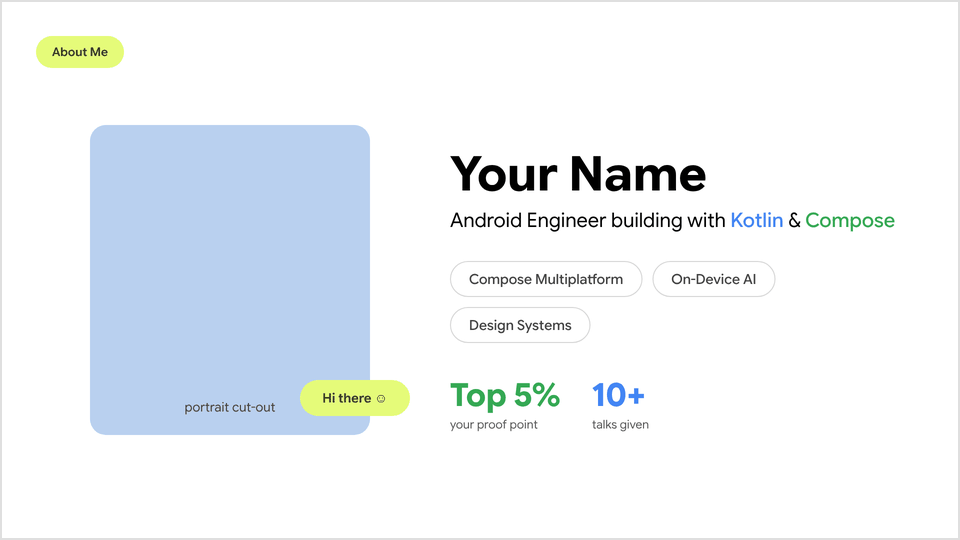
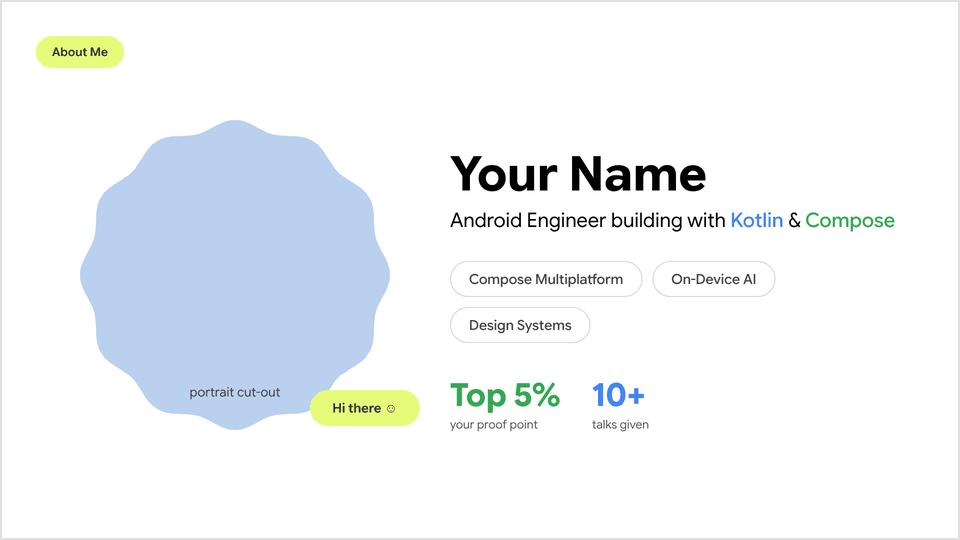
Use M3 Expressive shapes wherever possible
Agenda numbers, feature-card icon backdrops, title hero and speaker
portrait backdrops, the emphasis tile, the vs badge and timeline dots
now use cookie/clover/sunny/flower/burst shapes. DESIGN.md gains the
shape rule and a checklist item; previews and banner refreshed.

Claude-Session: https://claude.ai/code/session_01SdsZEhSAwvsHzT8snBEZXM

diff --git a/components/Timeline.html b/components/Timeline.html
@@ -15,8 +15,8 @@ A left-to-right sequence of 3–6 steps on a dashed line, for pipelines, setup f
 
 **Consumer provides:** step labels (or years), a 1–3 word heading and a one-line detail for each; which step is the destination.
 
-- Dashed `card-border` line across the slide; each step = lime `dr-node` pill on top, a 2px stem, a 40px `green` dot on the line, heading 30px/500 and detail 24/32 `ink-muted` below.
-- The destination step: solid `green` pill with white text and a larger `lime` dot ringed in `green`.
+- Dashed `card-border` line across the slide; each step = lime `dr-node` pill on top, a 2px stem, a 44px `green` cookie shape (`dr-shape is-cookie9`) on the line, heading 30px/500 and detail 24/32 `ink-muted` below.
+- The destination step: solid `green` pill with white text and a larger 76px `green` sunny shape (`dr-shape is-sunny`).
 - Equal columns; ≤ 6 steps. Longer flows go to `FlowDiagram`.
 -->
 <div class="dr-stage"><div class="dr-slide">
@@ -24,7 +24,7 @@ A left-to-right sequence of 3–6 steps on a dashed line, for pipelines, setup f
 <span class="dr-tag">Model to App</span>
 <div style="position:absolute;left:200px;right:200px;top:539px;height:4px;border-radius:2px;background:repeating-linear-gradient(90deg,var(--card-border) 0 16px,transparent 16px 28px)"></div>
 <div style="position:absolute;left:160px;right:160px;top:300px;display:grid;grid-template-columns:repeat(5,1fr)">
-<div style="display:flex;flex-direction:column;align-items:center;text-align:center"><span class="dr-node" style="font-size:24px;">Step 1</span><div style="width:2px;height:120px;border-radius:1px;background:var(--card-border)"></div><div style="width:40px;height:40px;border-radius:50%;background:var(--green);border:0px solid var(--green)"></div><div style="font-size:30px;line-height:40px;font-weight:500;margin-top:48px">Pick a model</div><div style="font-size:24px;line-height:32px;color:var(--ink-muted);margin-top:12px;max-width:260px">Gemma 3 1B from Hugging Face</div></div><div style="display:flex;flex-direction:column;align-items:center;text-align:center"><span class="dr-node" style="font-size:24px;">Step 2</span><div style="width:2px;height:120px;border-radius:1px;background:var(--card-border)"></div><div style="width:40px;height:40px;border-radius:50%;background:var(--green);border:0px solid var(--green)"></div><div style="font-size:30px;line-height:40px;font-weight:500;margin-top:48px">Quantize</div><div style="font-size:24px;line-height:32px;color:var(--ink-muted);margin-top:12px;max-width:260px">INT8 / INT4 weights</div></div><div style="display:flex;flex-direction:column;align-items:center;text-align:center"><span class="dr-node" style="font-size:24px;">Step 3</span><div style="width:2px;height:120px;border-radius:1px;background:var(--card-border)"></div><div style="width:40px;height:40px;border-radius:50%;background:var(--green);border:0px solid var(--green)"></div><div style="font-size:30px;line-height:40px;font-weight:500;margin-top:48px">Convert</div><div style="font-size:24px;line-height:32px;color:var(--ink-muted);margin-top:12px;max-width:260px">Bundle into a .task file</div></div><div style="display:flex;flex-direction:column;align-items:center;text-align:center"><span class="dr-node" style="font-size:24px;">Step 4</span><div style="width:2px;height:120px;border-radius:1px;background:var(--card-border)"></div><div style="width:40px;height:40px;border-radius:50%;background:var(--green);border:0px solid var(--green)"></div><div style="font-size:30px;line-height:40px;font-weight:500;margin-top:48px">Push</div><div style="font-size:24px;line-height:32px;color:var(--ink-muted);margin-top:12px;max-width:260px">adb push to the device</div></div><div style="display:flex;flex-direction:column;align-items:center;text-align:center"><span class="dr-node" style="font-size:24px;background:var(--green);color:var(--on-green);">Step 5</span><div style="width:2px;height:120px;border-radius:1px;background:var(--card-border)"></div><div style="width:56px;height:56px;border-radius:50%;background:var(--lime);border:8px solid var(--green)"></div><div style="font-size:30px;line-height:40px;font-weight:500;margin-top:48px">Generate</div><div style="font-size:24px;line-height:32px;color:var(--ink-muted);margin-top:12px;max-width:260px">LlmInference on Android</div></div>
+<div style="display:flex;flex-direction:column;align-items:center;text-align:center"><span class="dr-node" style="font-size:24px;">Step 1</span><div style="width:2px;height:120px;border-radius:1px;background:var(--card-border)"></div><div class="dr-shape is-cookie9" style="width:44px;height:44px;margin:16px 0"></div><div style="font-size:30px;line-height:40px;font-weight:500;margin-top:48px">Pick a model</div><div style="font-size:24px;line-height:32px;color:var(--ink-muted);margin-top:12px;max-width:260px">Gemma 3 1B from Hugging Face</div></div><div style="display:flex;flex-direction:column;align-items:center;text-align:center"><span class="dr-node" style="font-size:24px;">Step 2</span><div style="width:2px;height:120px;border-radius:1px;background:var(--card-border)"></div><div class="dr-shape is-cookie9" style="width:44px;height:44px;margin:16px 0"></div><div style="font-size:30px;line-height:40px;font-weight:500;margin-top:48px">Quantize</div><div style="font-size:24px;line-height:32px;color:var(--ink-muted);margin-top:12px;max-width:260px">INT8 / INT4 weights</div></div><div style="display:flex;flex-direction:column;align-items:center;text-align:center"><span class="dr-node" style="font-size:24px;">Step 3</span><div style="width:2px;height:120px;border-radius:1px;background:var(--card-border)"></div><div class="dr-shape is-cookie9" style="width:44px;height:44px;margin:16px 0"></div><div style="font-size:30px;line-height:40px;font-weight:500;margin-top:48px">Convert</div><div style="font-size:24px;line-height:32px;color:var(--ink-muted);margin-top:12px;max-width:260px">Bundle into a .task file</div></div><div style="display:flex;flex-direction:column;align-items:center;text-align:center"><span class="dr-node" style="font-size:24px;">Step 4</span><div style="width:2px;height:120px;border-radius:1px;background:var(--card-border)"></div><div class="dr-shape is-cookie9" style="width:44px;height:44px;margin:16px 0"></div><div style="font-size:30px;line-height:40px;font-weight:500;margin-top:48px">Push</div><div style="font-size:24px;line-height:32px;color:var(--ink-muted);margin-top:12px;max-width:260px">adb push to the device</div></div><div style="display:flex;flex-direction:column;align-items:center;text-align:center"><span class="dr-node" style="font-size:24px;background:var(--green);color:var(--on-green);">Step 5</span><div style="width:2px;height:120px;border-radius:1px;background:var(--card-border)"></div><div class="dr-shape is-sunny" style="width:76px;height:76px;margin:0px 0"></div><div style="font-size:30px;line-height:40px;font-weight:500;margin-top:48px">Generate</div><div style="font-size:24px;line-height:32px;color:var(--ink-muted);margin-top:12px;max-width:260px">LlmInference on Android</div></div>
 </div>
 
 </div></div>

diff --git a/examples/deck.html b/examples/deck.html
@@ -20,22 +20,22 @@ html,body{margin:0;height:100%;background:#111;overflow:hidden}
 <div style="position:absolute;top:820px;left:0;height:78px;padding:0 64px 0 152px;border-radius:0 999px 999px 0;background:var(--lime-deep);display:flex;flex-direction:column;justify-content:center">
   <div style="font-size:32px;line-height:40px;font-weight:700">Your Name</div>
   <div style="font-size:18px;line-height:24px;font-weight:500;color:var(--green)">Your Role at Company</div></div>
-<div style="position:absolute;right:96px;top:330px;width:440px;height:440px;border-radius:32px;background:var(--green-wash);display:flex;align-items:center;justify-content:center;color:var(--ink-muted);font-size:28px">hero render</div>
+<div class="dr-shape is-cookie12" style="position:absolute;right:96px;top:310px;width:480px;height:480px;background:var(--green-tint);display:flex;align-items:center;justify-content:center;color:var(--ink-muted);font-size:28px">hero render</div>
 
 </div></div></section><section class="deck-slide" data-name="AgendaSlide"><div class="dr-stage"><div class="dr-slide">
 
 <span class="dr-tag">Agenda</span>
 <div style="position:absolute;left:180px;top:200px;width:1100px">
 <div style="display:flex;align-items:center;gap:40px;height:136px;padding:0 40px;border-radius:999px;">
-<div class="dr-disc" style="width:80px;height:80px;font-size:26px;">01</div>
+<div class="dr-disc is-cookie9" style="width:84px;height:84px;font-size:26px;">01</div>
 <div style="font-size:48px;line-height:56px;">Why On-Device?</div></div><div style="display:flex;align-items:center;gap:40px;height:136px;padding:0 40px;border-radius:999px;background:var(--green-tint);">
-<div class="dr-disc" style="width:80px;height:80px;font-size:26px;">02</div>
+<div class="dr-disc is-clover" style="width:84px;height:84px;font-size:26px;">02</div>
 <div style="font-size:48px;line-height:56px;">Shrinking the Model</div><span class="dr-badge is-lime" style="margin-left:auto">Now</span></div><div style="display:flex;align-items:center;gap:40px;height:136px;padding:0 40px;border-radius:999px;">
-<div class="dr-disc" style="width:80px;height:80px;font-size:26px;background:var(--green-wash);color:var(--green);border:2px solid var(--green-tint);">03</div>
+<div class="dr-disc is-sunny" style="width:84px;height:84px;font-size:26px;background:var(--green-tint);color:var(--green);">03</div>
 <div style="font-size:48px;line-height:56px;color:var(--ink-muted);">Running on Android</div></div><div style="display:flex;align-items:center;gap:40px;height:136px;padding:0 40px;border-radius:999px;">
-<div class="dr-disc" style="width:80px;height:80px;font-size:26px;background:var(--green-wash);color:var(--green);border:2px solid var(--green-tint);">04</div>
+<div class="dr-disc is-flower" style="width:84px;height:84px;font-size:26px;background:var(--green-tint);color:var(--green);">04</div>
 <div style="font-size:48px;line-height:56px;color:var(--ink-muted);">Fine Tuning with LoRA</div></div><div style="display:flex;align-items:center;gap:40px;height:136px;padding:0 40px;border-radius:999px;">
-<div class="dr-disc" style="width:80px;height:80px;font-size:26px;background:var(--green-wash);color:var(--green);border:2px solid var(--green-tint);">05</div>
+<div class="dr-disc is-burst" style="width:84px;height:84px;font-size:26px;background:var(--green-tint);color:var(--green);">05</div>
 <div style="font-size:48px;line-height:56px;color:var(--ink-muted);">Production Considerations</div></div>
 </div>
 <div style="position:absolute;right:160px;top:300px;width:420px;height:480px;border-radius:32px;background:var(--green);display:flex;flex-direction:column;justify-content:flex-end;padding:48px">
@@ -79,7 +79,7 @@ html,body{margin:0;height:100%;background:#111;overflow:hidden}
 <div style="font-size:120px;line-height:1;font-weight:700;color:var(--on-green)">UnStable</div>
 <div style="font-size:28px;color:var(--on-green);margin-top:28px">Interfaces · List · var properties</div>
 <div style="display:flex;gap:16px;margin-top:48px"><span class="dr-badge is-lime">Recomposes</span></div></div>
-<div style="position:absolute;left:880px;top:460px;width:160px;height:160px;border-radius:50%;background:var(--lime);color:var(--on-lime);display:flex;align-items:center;justify-content:center;font-size:48px;font-weight:700">vs</div>
+<div class="dr-shape is-sunny" style="position:absolute;left:870px;top:450px;width:180px;height:180px;background:var(--lime);color:var(--on-lime);display:flex;align-items:center;justify-content:center;font-size:48px;font-weight:700">vs</div>
 
 </div></div></section><section class="deck-slide" data-name="DemoSlide"><div class="dr-stage"><div class="dr-slide is-green">
 

diff --git a/components/AgendaSlide.html b/components/AgendaSlide.html
@@ -15,7 +15,7 @@ The talk outline: 3–6 numbered rows, the current section highlighted, with an 
 
 **Consumer provides:** section titles (Title Case, ≤ 4 words), the index of the current section, and optionally one fact for the tile (demo count, duration).
 
-- Rows 136px tall; numbers in 80px discs (`dr-disc` sized down). Done/current items use solid `green` discs; upcoming items use `green-wash` discs with `green` numbers and `ink-muted` labels.
+- Rows 136px tall; numbers in 84px Material 3 Expressive shapes (`dr-disc is-cookie9`, `is-clover`, `is-sunny`, `is-flower`, `is-burst`, one per row). Done/current items are solid `green`; upcoming items are `green-tint` with `green` numbers and `ink-muted` labels.
 - Current row: `green-tint` pill background plus a `lime` "Now" badge.
 - Labels in `step-label` (48/56).
 - Fact tile: `green` block, `radius-card`, a large white number (120px/700) and a 36px label.
@@ -26,15 +26,15 @@ The talk outline: 3–6 numbered rows, the current section highlighted, with an 
 <span class="dr-tag">Agenda</span>
 <div style="position:absolute;left:180px;top:200px;width:1100px">
 <div style="display:flex;align-items:center;gap:40px;height:136px;padding:0 40px;border-radius:999px;">
-<div class="dr-disc" style="width:80px;height:80px;font-size:26px;">01</div>
+<div class="dr-disc is-cookie9" style="width:84px;height:84px;font-size:26px;">01</div>
 <div style="font-size:48px;line-height:56px;">Why On-Device?</div></div><div style="display:flex;align-items:center;gap:40px;height:136px;padding:0 40px;border-radius:999px;background:var(--green-tint);">
-<div class="dr-disc" style="width:80px;height:80px;font-size:26px;">02</div>
+<div class="dr-disc is-clover" style="width:84px;height:84px;font-size:26px;">02</div>
 <div style="font-size:48px;line-height:56px;">Shrinking the Model</div><span class="dr-badge is-lime" style="margin-left:auto">Now</span></div><div style="display:flex;align-items:center;gap:40px;height:136px;padding:0 40px;border-radius:999px;">
-<div class="dr-disc" style="width:80px;height:80px;font-size:26px;background:var(--green-wash);color:var(--green);border:2px solid var(--green-tint);">03</div>
+<div class="dr-disc is-sunny" style="width:84px;height:84px;font-size:26px;background:var(--green-tint);color:var(--green);">03</div>
 <div style="font-size:48px;line-height:56px;color:var(--ink-muted);">Running on Android</div></div><div style="display:flex;align-items:center;gap:40px;height:136px;padding:0 40px;border-radius:999px;">
-<div class="dr-disc" style="width:80px;height:80px;font-size:26px;background:var(--green-wash);color:var(--green);border:2px solid var(--green-tint);">04</div>
+<div class="dr-disc is-flower" style="width:84px;height:84px;font-size:26px;background:var(--green-tint);color:var(--green);">04</div>
 <div style="font-size:48px;line-height:56px;color:var(--ink-muted);">Fine Tuning with LoRA</div></div><div style="display:flex;align-items:center;gap:40px;height:136px;padding:0 40px;border-radius:999px;">
-<div class="dr-disc" style="width:80px;height:80px;font-size:26px;background:var(--green-wash);color:var(--green);border:2px solid var(--green-tint);">05</div>
+<div class="dr-disc is-burst" style="width:84px;height:84px;font-size:26px;background:var(--green-tint);color:var(--green);">05</div>
 <div style="font-size:48px;line-height:56px;color:var(--ink-muted);">Production Considerations</div></div>
 </div>
 <div style="position:absolute;right:160px;top:300px;width:420px;height:480px;border-radius:32px;background:var(--green);display:flex;flex-direction:column;justify-content:flex-end;padding:48px">

diff --git a/components/FeatureCards.html b/components/FeatureCards.html
@@ -16,7 +16,7 @@ A row of 3–5 white outlined cards, each an icon, a title and a one-line descri
 **Consumer provides:** per card a 3D/glossy icon (Google-style 3D illustrations in the past decks), a title (1–3 words) and a description (≤ 6 words, two lines).
 
 - `dr-card`: `surface`, 2px `card-border`, `radius-card`; title `card-title` and body `card-body`, both `ink-muted`, centred.
-- Equal widths, 44px gaps, icon in the top half.
+- Equal widths, 44px gaps, icon in the top half sitting on a `blue-tint` Material 3 Expressive shape (`dr-shape`, 180px), a different shape per card (cookie9, clover, sunny, flower).
 - Status variant: cards labelled with a state (Downloadable / Downloading / Available / Unavailable).
 - Don't colour the cards; colour comes from the icons.
 -->
@@ -24,7 +24,7 @@ A row of 3–5 white outlined cards, each an icon, a title and a one-line descri
 
 <h2 class="dr-headline"><span class="hl-blue" style="font-weight:400">Advantages</span> of being On-Device</h2>
 <div style="position:absolute;top:310px;left:140px;right:140px;display:grid;grid-template-columns:repeat(4,1fr);gap:44px">
-<div class="dr-card" style="height:540px;justify-content:flex-end;padding-bottom:90px"><div style="width:160px;height:160px;border-radius:24px;background:var(--blue-tint);margin-bottom:auto;margin-top:40px"></div><h4>Latency / UX</h4><p>Faster, no network involved</p></div><div class="dr-card" style="height:540px;justify-content:flex-end;padding-bottom:90px"><div style="width:160px;height:160px;border-radius:24px;background:var(--blue-tint);margin-bottom:auto;margin-top:40px"></div><h4>Privacy</h4><p>Sensitive data not sent off device</p></div><div class="dr-card" style="height:540px;justify-content:flex-end;padding-bottom:90px"><div style="width:160px;height:160px;border-radius:24px;background:var(--blue-tint);margin-bottom:auto;margin-top:40px"></div><h4>Offline use</h4><p>Works without requiring cellular</p></div><div class="dr-card" style="height:540px;justify-content:flex-end;padding-bottom:90px"><div style="width:160px;height:160px;border-radius:24px;background:var(--blue-tint);margin-bottom:auto;margin-top:40px"></div><h4>Savings</h4><p>Lower or no data-center costs</p></div>
+<div class="dr-card" style="height:540px;justify-content:flex-end;padding-bottom:90px"><div class="dr-shape is-cookie9" style="width:180px;height:180px;background:var(--blue-tint);margin-bottom:auto;margin-top:40px"></div><h4>Latency / UX</h4><p>Faster, no network involved</p></div><div class="dr-card" style="height:540px;justify-content:flex-end;padding-bottom:90px"><div class="dr-shape is-clover" style="width:180px;height:180px;background:var(--blue-tint);margin-bottom:auto;margin-top:40px"></div><h4>Privacy</h4><p>Sensitive data not sent off device</p></div><div class="dr-card" style="height:540px;justify-content:flex-end;padding-bottom:90px"><div class="dr-shape is-sunny" style="width:180px;height:180px;background:var(--blue-tint);margin-bottom:auto;margin-top:40px"></div><h4>Offline use</h4><p>Works without requiring cellular</p></div><div class="dr-card" style="height:540px;justify-content:flex-end;padding-bottom:90px"><div class="dr-shape is-flower" style="width:180px;height:180px;background:var(--blue-tint);margin-bottom:auto;margin-top:40px"></div><h4>Savings</h4><p>Lower or no data-center costs</p></div>
 </div>
 
 </div></div>

diff --git a/components/SpeakerIntro.html b/components/SpeakerIntro.html
@@ -15,7 +15,7 @@ The "who's talking" slide: portrait on a soft panel, name, one-line pitch, focus
 
 **Consumer provides:** a portrait cut-out (transparent PNG), the one-line pitch with a blue and a green highlight, 2–4 focus areas, and 1–2 stats.
 
-- Portrait on a `blue-panel` block (`radius-card`), with a small `lime` greeting pill overlapping its bottom-right corner.
+- Portrait cut-out over a `blue-panel` Material 3 Expressive shape (`dr-shape is-cookie12`, 620px square), with a small `lime` greeting pill overlapping its bottom-right edge.
 - Name in `title` (96/116, 700); pitch at 40/52 with highlights.
 - Focus areas as `dr-opill` outline pills (2px `card-border`, `ink-soft` 28px/500).
 - Stats: value 64px/700 in `green` or `blue`, label 24px `ink-muted`. Two stats max; use real, current numbers.
@@ -24,8 +24,8 @@ The "who's talking" slide: portrait on a soft panel, name, one-line pitch, focus
 <div class="dr-stage"><div class="dr-slide">
 
 <span class="dr-tag">About Me</span>
-<div style="position:absolute;left:180px;top:250px;width:560px;height:620px;border-radius:32px;background:var(--blue-panel);display:flex;align-items:flex-end;justify-content:center;padding-bottom:40px;color:var(--ink-soft);font-size:26px">portrait cut-out</div>
-<div style="position:absolute;left:600px;top:760px;width:220px;height:72px;border-radius:999px;background:var(--lime);color:var(--on-lime);display:flex;align-items:center;justify-content:center;font-size:26px;font-weight:600">Hi there ☺</div>
+<div class="dr-shape is-cookie12" style="position:absolute;left:160px;top:240px;width:620px;height:620px;background:var(--blue-panel);display:flex;align-items:flex-end;justify-content:center;padding-bottom:60px;color:var(--ink-soft);font-size:26px">portrait cut-out</div>
+<div style="position:absolute;left:620px;top:780px;width:220px;height:72px;border-radius:999px;background:var(--lime);color:var(--on-lime);display:flex;align-items:center;justify-content:center;font-size:26px;font-weight:600">Hi there ☺</div>
 <div style="position:absolute;left:900px;top:290px;right:120px">
   <div style="font-size:96px;line-height:116px;font-weight:700">Your Name</div>
   <div style="font-size:40px;line-height:52px;margin-top:8px">Android Engineer building with <span class="hl-blue">Kotlin</span> &amp; <span class="hl-green">Compose</span></div>

diff --git a/components/TintTiles.html b/components/TintTiles.html
@@ -17,7 +17,7 @@ Soft tinted tiles for grouping concepts, logos or options; the centre tile can c
 
 - `dr-tile` on `green-tint`; `is-blue` on `blue-tint`; `is-outline` = white with a `green-tint` 2px border; `is-solid` = `green` with white content for the one emphasised item.
 - Tile label in `green` (or `blue` on blue tiles) at 28–36px/500; description 22px `ink`.
-- Corners `radius-card` (32px) on every tile, including the inner logo or emphasis block (24px+). Whole-slide variant: `is-mint` slide background with white panels on it (Clean Architecture slides).
+- Corners `radius-card` (32px) on every tile. The emphasis or logo backdrop inside the centre tile is a Material 3 Expressive shape (`dr-shape is-clover`, 220px). Whole-slide variant: `is-mint` slide background with white panels on it (Clean Architecture slides).
 - Logo grid: logos in full colour on `green-tint` tiles, 3×2.
 -->
 <div class="dr-stage"><div class="dr-slide">
@@ -25,7 +25,7 @@ Soft tinted tiles for grouping concepts, logos or options; the centre tile can c
 <span class="dr-tag">MediaPipe</span>
 <div style="position:absolute;top:250px;left:240px;right:240px;display:grid;grid-template-columns:repeat(3,1fr);gap:56px;height:560px">
 <div class="dr-tile is-outline"><div style="font-size:36px;font-weight:500;color:var(--green)">MediaPipe</div><p style="font-size:22px;line-height:30px;margin:24px 0 0">Open source framework to build cross-platform ML pipelines.</p></div>
-<div class="dr-tile"><div style="width:180px;height:180px;border-radius:24px;background:var(--green)"></div></div>
+<div class="dr-tile"><div class="dr-shape is-clover" style="width:220px;height:220px"></div></div>
 <div class="dr-tile is-outline"><div style="font-size:36px;font-weight:500;color:var(--green)">LLM Inference</div><p style="font-size:22px;line-height:30px;margin:24px 0 0">Specialised task built within the framework for LLMs on device.</p></div>
 </div>
 <div style="position:absolute;bottom:80px;left:240px;right:240px;display:grid;grid-template-columns:1fr 1fr;gap:56px">

diff --git a/components/TitleSlide.html b/components/TitleSlide.html
@@ -19,6 +19,7 @@ The opening slide: event pill, a three-line title with highlight words, the spea
 - Title: `title` style (96/116, 700) in `ink`. Highlight the *subject* in `blue` and the *platform or payoff* in `green` (e.g. "Tiny On-Device LLMs" blue, "MediaPipe" green). Never more than two highlight runs.
 - Speaker pill: `lime-deep`, flush to the left edge with its right end rounded; name in `speaker`, role in `speaker-role` `green`.
 - Variant (Beyond the Grid, Compiler Magic): small kicker line in `blue`/`ink-muted` above the title, title at 72px, speaker as plain text — "Dinoy Raj" in `blue` 500 with role under it — at the bottom-left; event as a small dark pill or the event logo.
+- Hero backdrop: a large `green-tint` Material 3 Expressive shape (`dr-shape is-cookie12` or `is-sunny`, ~480px) with the render placed over it, slightly overflowing.
 - Don't add a background grid or gradient here; white only.
 -->
 <div class="dr-stage"><div class="dr-slide">
@@ -28,7 +29,7 @@ The opening slide: event pill, a three-line title with highlight words, the spea
 <div style="position:absolute;top:820px;left:0;height:78px;padding:0 64px 0 152px;border-radius:0 999px 999px 0;background:var(--lime-deep);display:flex;flex-direction:column;justify-content:center">
   <div style="font-size:32px;line-height:40px;font-weight:700">Your Name</div>
   <div style="font-size:18px;line-height:24px;font-weight:500;color:var(--green)">Your Role at Company</div></div>
-<div style="position:absolute;right:96px;top:330px;width:440px;height:440px;border-radius:32px;background:var(--green-wash);display:flex;align-items:center;justify-content:center;color:var(--ink-muted);font-size:28px">hero render</div>
+<div class="dr-shape is-cookie12" style="position:absolute;right:96px;top:310px;width:480px;height:480px;background:var(--green-tint);display:flex;align-items:center;justify-content:center;color:var(--ink-muted);font-size:28px">hero render</div>
 
 </div></div>
 <script>

diff --git a/components/VersusSplit.html b/components/VersusSplit.html
@@ -17,7 +17,7 @@ Two opposing ideas side by side: white half vs green half, with a lime "vs" disc
 
 - Left half `surface` with the name in `green` 120px/700; right half a `green` panel inset 24px from the edges with `radius-card` corners, name in `on-green`.
 - Descriptions 28px (`ink-muted` / `on-green`); traits as `dr-badge` (green-tint on white, lime on green).
-- 160px `lime` disc with "vs" in `on-lime`, centred on the seam.
+- 180px `lime` sunny shape (`dr-shape is-sunny is-lime`) with "vs" in `on-lime`, centred on the seam.
 - Put the "good"/default side on the left (white), the problem/twist on the right (green).
 - Header variant for denser comparisons: two `green-tint` pills as column headers with bullets under each (ProtoBuf vs FlatBuffers).
 -->
@@ -31,7 +31,7 @@ Two opposing ideas side by side: white half vs green half, with a lime "vs" disc
 <div style="font-size:120px;line-height:1;font-weight:700;color:var(--on-green)">UnStable</div>
 <div style="font-size:28px;color:var(--on-green);margin-top:28px">Interfaces · List · var properties</div>
 <div style="display:flex;gap:16px;margin-top:48px"><span class="dr-badge is-lime">Recomposes</span></div></div>
-<div style="position:absolute;left:880px;top:460px;width:160px;height:160px;border-radius:50%;background:var(--lime);color:var(--on-lime);display:flex;align-items:center;justify-content:center;font-size:48px;font-weight:700">vs</div>
+<div class="dr-shape is-sunny" style="position:absolute;left:870px;top:450px;width:180px;height:180px;background:var(--lime);color:var(--on-lime);display:flex;align-items:center;justify-content:center;font-size:48px;font-weight:700">vs</div>
 
 </div></div>
 <script>

diff --git a/DESIGN.md b/DESIGN.md
@@ -133,6 +133,7 @@ One family (`--font-sans`, Google Sans) plus `--font-mono` for code. Headlines a
 - Two-column slides: text in the left ~45%, visual in the right ~55%. Centred code and tables keep ~200–240px side margins.
 - **Background grid** (statement and sparse slides only): 2px `--hairline` lines every 528px (offset 263px / 274px), with small white gaps where lines cross — use `<div class="dr-grid"></div>`.
 - If a slide needs two visuals, use two equal panels with a green `dr-cap` caption pill under each.
+- **Material 3 Expressive shapes** (`is-cookie9`, `is-cookie12`, `is-clover`, `is-sunny`, `is-flower`, `is-burst`) replace circles and plain backdrops wherever possible: numbered discs (`dr-disc is-…`), agenda numbers, takeaway markers and timeline dots (`dr-shape`), the "vs" badge, icon backdrops in feature cards, the emphasis tile, and the hero and portrait backdrops. Vary the shape between siblings; keep size and colour equal. Plain circles stay only for 14px bullet dots and validation ticks.
 
 ## 8. Building blocks (classes in `css/slides.css`)
 
@@ -176,7 +177,7 @@ The talk outline: 3–6 numbered rows, the current section highlighted, with an 
 
 **Consumer provides:** section titles (Title Case, ≤ 4 words), the index of the current section, and optionally one fact for the tile (demo count, duration).
 
-- Rows 136px tall; numbers in 80px discs (`dr-disc` sized down). Done/current items use solid `green` discs; upcoming items use `green-wash` discs with `green` numbers and `ink-muted` labels.
+- Rows 136px tall; numbers in 84px Material 3 Expressive shapes (`dr-disc is-cookie9`, `is-clover`, `is-sunny`, `is-flower`, `is-burst`, one per row). Done/current items are solid `green`; upcoming items are `green-tint` with `green` numbers and `ink-muted` labels.
 - Current row: `green-tint` pill background plus a `lime` "Now" badge.
 - Labels in `step-label` (48/56).
 - Fact tile: `green` block, `radius-card`, a large white number (120px/700) and a 36px label.
@@ -243,7 +244,7 @@ The "who's talking" slide: portrait on a soft panel, name, one-line pitch, focus
 
 **Consumer provides:** a portrait cut-out (transparent PNG), the one-line pitch with a blue and a green highlight, 2–4 focus areas, and 1–2 stats.
 
-- Portrait on a `blue-panel` block (`radius-card`), with a small `lime` greeting pill overlapping its bottom-right corner.
+- Portrait cut-out over a `blue-panel` Material 3 Expressive shape (`dr-shape is-cookie12`, 620px square), with a small `lime` greeting pill overlapping its bottom-right edge.
 - Name in `title` (96/116, 700); pitch at 40/52 with highlights.
 - Focus areas as `dr-opill` outline pills (2px `card-border`, `ink-soft` 28px/500).
 - Stats: value 64px/700 in `green` or `blue`, label 24px `ink-muted`. Two stats max; use real, current numbers.
@@ -275,10 +276,8 @@ The opening slide: event pill, a three-line title with highlight words, the spea
 - Title: `title` style (96/116, 700) in `ink`. Highlight the *subject* in `blue` and the *platform or payoff* in `green` (e.g. "Tiny On-Device LLMs" blue, "MediaPipe" green). Never more than two highlight runs.
 - Speaker pill: `lime-deep`, flush to the left edge with its right end rounded; name in `speaker`, role in `speaker-role` `green`.
 - Variant (Beyond the Grid, Compiler Magic): small kicker line in `blue`/`ink-muted` above the title, title at 72px, speaker as plain text — "Dinoy Raj" in `blue` 500 with role under it — at the bottom-left; event as a small dark pill or the event logo.
+- Hero backdrop: a large `green-tint` Material 3 Expressive shape (`dr-shape is-cookie12` or `is-sunny`, ~480px) with the render placed over it, slightly overflowing.
 - Don't add a background grid or gradient here; white only.
-
-
-### Labels
 
 #### ChipSet
 
@@ -397,7 +396,7 @@ A row of 3–5 white outlined cards, each an icon, a title and a one-line descri
 **Consumer provides:** per card a 3D/glossy icon (Google-style 3D illustrations in the past decks), a title (1–3 words) and a description (≤ 6 words, two lines).
 
 - `dr-card`: `surface`, 2px `card-border`, `radius-card`; title `card-title` and body `card-body`, both `ink-muted`, centred.
-- Equal widths, 44px gaps, icon in the top half.
+- Equal widths, 44px gaps, icon in the top half sitting on a `blue-tint` Material 3 Expressive shape (`dr-shape`, 180px), a different shape per card (cookie9, clover, sunny, flower).
 - Status variant: cards labelled with a state (Downloadable / Downloading / Available / Unavailable).
 - Don't colour the cards; colour comes from the icons.
 
@@ -503,8 +502,8 @@ A left-to-right sequence of 3–6 steps on a dashed line, for pipelines, setup f
 
 **Consumer provides:** step labels (or years), a 1–3 word heading and a one-line detail for each; which step is the destination.
 
-- Dashed `card-border` line across the slide; each step = lime `dr-node` pill on top, a 2px stem, a 40px `green` dot on the line, heading 30px/500 and detail 24/32 `ink-muted` below.
-- The destination step: solid `green` pill with white text and a larger `lime` dot ringed in `green`.
+- Dashed `card-border` line across the slide; each step = lime `dr-node` pill on top, a 2px stem, a 44px `green` cookie shape (`dr-shape is-cookie9`) on the line, heading 30px/500 and detail 24/32 `ink-muted` below.
+- The destination step: solid `green` pill with white text and a larger 76px `green` sunny shape (`dr-shape is-sunny`).
 - Equal columns; ≤ 6 steps. Longer flows go to `FlowDiagram`.
 
 #### TintTiles
@@ -517,7 +516,7 @@ Soft tinted tiles for grouping concepts, logos or options; the centre tile can c
 
 - `dr-tile` on `green-tint`; `is-blue` on `blue-tint`; `is-outline` = white with a `green-tint` 2px border; `is-solid` = `green` with white content for the one emphasised item.
 - Tile label in `green` (or `blue` on blue tiles) at 28–36px/500; description 22px `ink`.
-- Corners `radius-card` (32px) on every tile, including the inner logo or emphasis block (24px+). Whole-slide variant: `is-mint` slide background with white panels on it (Clean Architecture slides).
+- Corners `radius-card` (32px) on every tile. The emphasis or logo backdrop inside the centre tile is a Material 3 Expressive shape (`dr-shape is-clover`, 220px). Whole-slide variant: `is-mint` slide background with white panels on it (Clean Architecture slides).
 - Logo grid: logos in full colour on `green-tint` tiles, 3×2.
 
 #### VersusSplit
@@ -530,10 +529,9 @@ Two opposing ideas side by side: white half vs green half, with a lime "vs" disc
 
 - Left half `surface` with the name in `green` 120px/700; right half a `green` panel inset 24px from the edges with `radius-card` corners, name in `on-green`.
 - Descriptions 28px (`ink-muted` / `on-green`); traits as `dr-badge` (green-tint on white, lime on green).
-- 160px `lime` disc with "vs" in `on-lime`, centred on the seam.
+- 180px `lime` sunny shape (`dr-shape is-sunny is-lime`) with "vs" in `on-lime`, centred on the seam.
 - Put the "good"/default side on the left (white), the problem/twist on the right (green).
 - Header variant for denser comparisons: two `green-tint` pills as column headers with bullets under each (ProtoBuf vs FlatBuffers).
-
 
 ## 10. Imagery
 
@@ -550,5 +548,6 @@ Two opposing ideas side by side: white half vs green half, with a lime "vs" disc
 - [ ] Highlights and coloured text are ≥ 24px; small text is ink/ink-soft/ink-muted.
 - [ ] Green slides are ≤ ~20% of the deck; demos numbered in order.
 - [ ] Code uses `dr-code` with the five syntax colours, ≤ 10 lines at `code-l` or ≤ 25 at `code-s`.
+- [ ] Discs, markers, dots and image backdrops use Material 3 Expressive shapes, varied between siblings.
 - [ ] No shadows, extra gradients, left-border cards, decorative emoji or invented logos.
 - [ ] The deck ends with `KeyTakeaways` (optional) and the `ClosingSlide` "Thankyou."
